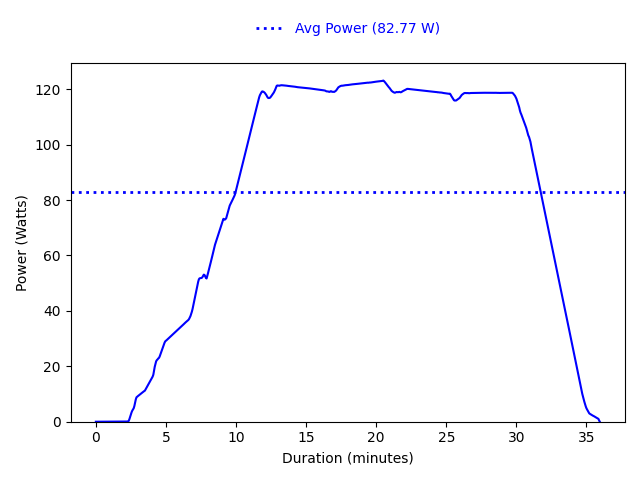
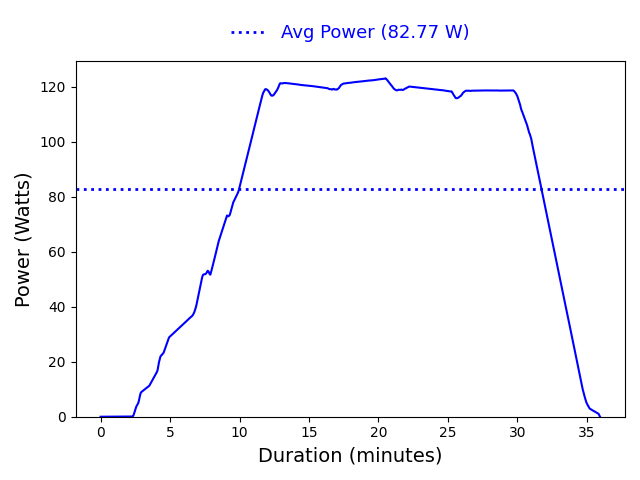
isekube improvements

diff --git a/isekube_experiments/ray_cluster_text/ray_mnist_experiment.py b/isekube_experiments/ray_cluster_text/ray_mnist_experiment.py
@@ -2,16 +2,16 @@ import os
 from kubernetes import client, config, utils, watch
 import subprocess
 import socket
-from basht2.metric_collector.metric_collector import MetricCollector
+from easht.metric_collector.metric_collector import MetricCollector
 import time
 from dotenv import load_dotenv
 from ray.job_submission import JobSubmissionClient
 
-from basht2.benchmark_template.experiment_runner import BenchmarkRunner, Benchmark, HelperFunctions
+from easht.benchmark_template.experiment_runner import ExperimentRunner, Experiment, HelperFunctions
 
 helper = HelperFunctions(namespace="st-felixgraf2")
 
-class OptunaBenchmark(Benchmark, MetricCollector):
+class OptunaBenchmark(Experiment, MetricCollector):
 
     def __init__(self):
         MetricCollector.__init__(self)  # Initialize the KeplerMetrics class
@@ -163,7 +163,7 @@ def main():
     try:
         ob = OptunaBenchmark()
 
-        runner = BenchmarkRunner(benchmark_cls=ob)
+        runner = ExperimentRunner(experiment_cls=ob)
         helper.validate_env_vars()
 
         runner.run()
@@ -178,10 +178,12 @@ def main():
 
     finally:
         pass
+        '''
         # Stop port forwarding to Prometheus
         if prometheus_process:
             prometheus_process.terminate()
             print("Prometheus port forwarding stopped")
+    '''
 
 
 

diff --git a/evaluation_plots/combined_box/boxplot.py b/evaluation_plots/combined_box/boxplot.py
@@ -6,13 +6,13 @@ import numpy as np
 with open("energy_boxplot_raw_ray.json") as f:
     data_ray = json.load(f)
 result_ray = data_ray["data"]["result"][0]["values"]
-watts_ray = [float(v[1]) for v in result_ray if float(v[1]) > 0]
+watts_ray = [float(v[1]) for v in result_ray]
 
 # Load second dataset
 with open("energy_boxplot_raw_optuna.json") as f:
     data_optuna = json.load(f)
 result_optuna = data_optuna["data"]["result"][0]["values"]
-watts_optuna = [float(v[1]) for v in result_optuna if float(v[1]) > 0]
+watts_optuna = [float(v[1]) for v in result_optuna]
 
 # Combine for boxplot
 data = [watts_ray, watts_optuna]
@@ -22,7 +22,7 @@ plt.figure(figsize=(6, 4))
 box = plt.boxplot(
     data,
     labels=labels,
-    showfliers=False,
+    showfliers=False,  # Hide outliers
     medianprops=dict(color='r', linewidth=2),
     widths=0.55
 )

diff --git a/isekube_experiments/optuna_mnist/optuna_mnist_experiment.py b/isekube_experiments/optuna_mnist/optuna_mnist_experiment.py
@@ -121,7 +121,7 @@ def main():
         # Save metrics with the best score
         ob.save_metrics("optuna_mnist_resource_metrics.json")
 
-        ob.save_prometheus_snapshot_locally(local_dir="prometheus_snapshots")
+        #ob.save_prometheus_snapshot_locally(local_dir="prometheus_snapshots")
     
 
     finally:

diff --git a/evaluation_plots/optuna_local/workers_json_line.py b/evaluation_plots/optuna_local/workers_json_line.py
@@ -71,7 +71,6 @@ for pod_name, time_watts in pod_time_watts.items():
     watts = [time_watts.get(ts, 0) for ts in all_times_sorted]
     ax1.plot(times, watts, label=pod_name)
 
-# Add vertical dotted line at 20 seconds (0.333 minutes)
 for i, split_x in enumerate(split_xs):
     if i == 0:
         ax1.axvline(split_x, color='gray', linestyle=':', linewidth=2, label=f'Setup Phase End')